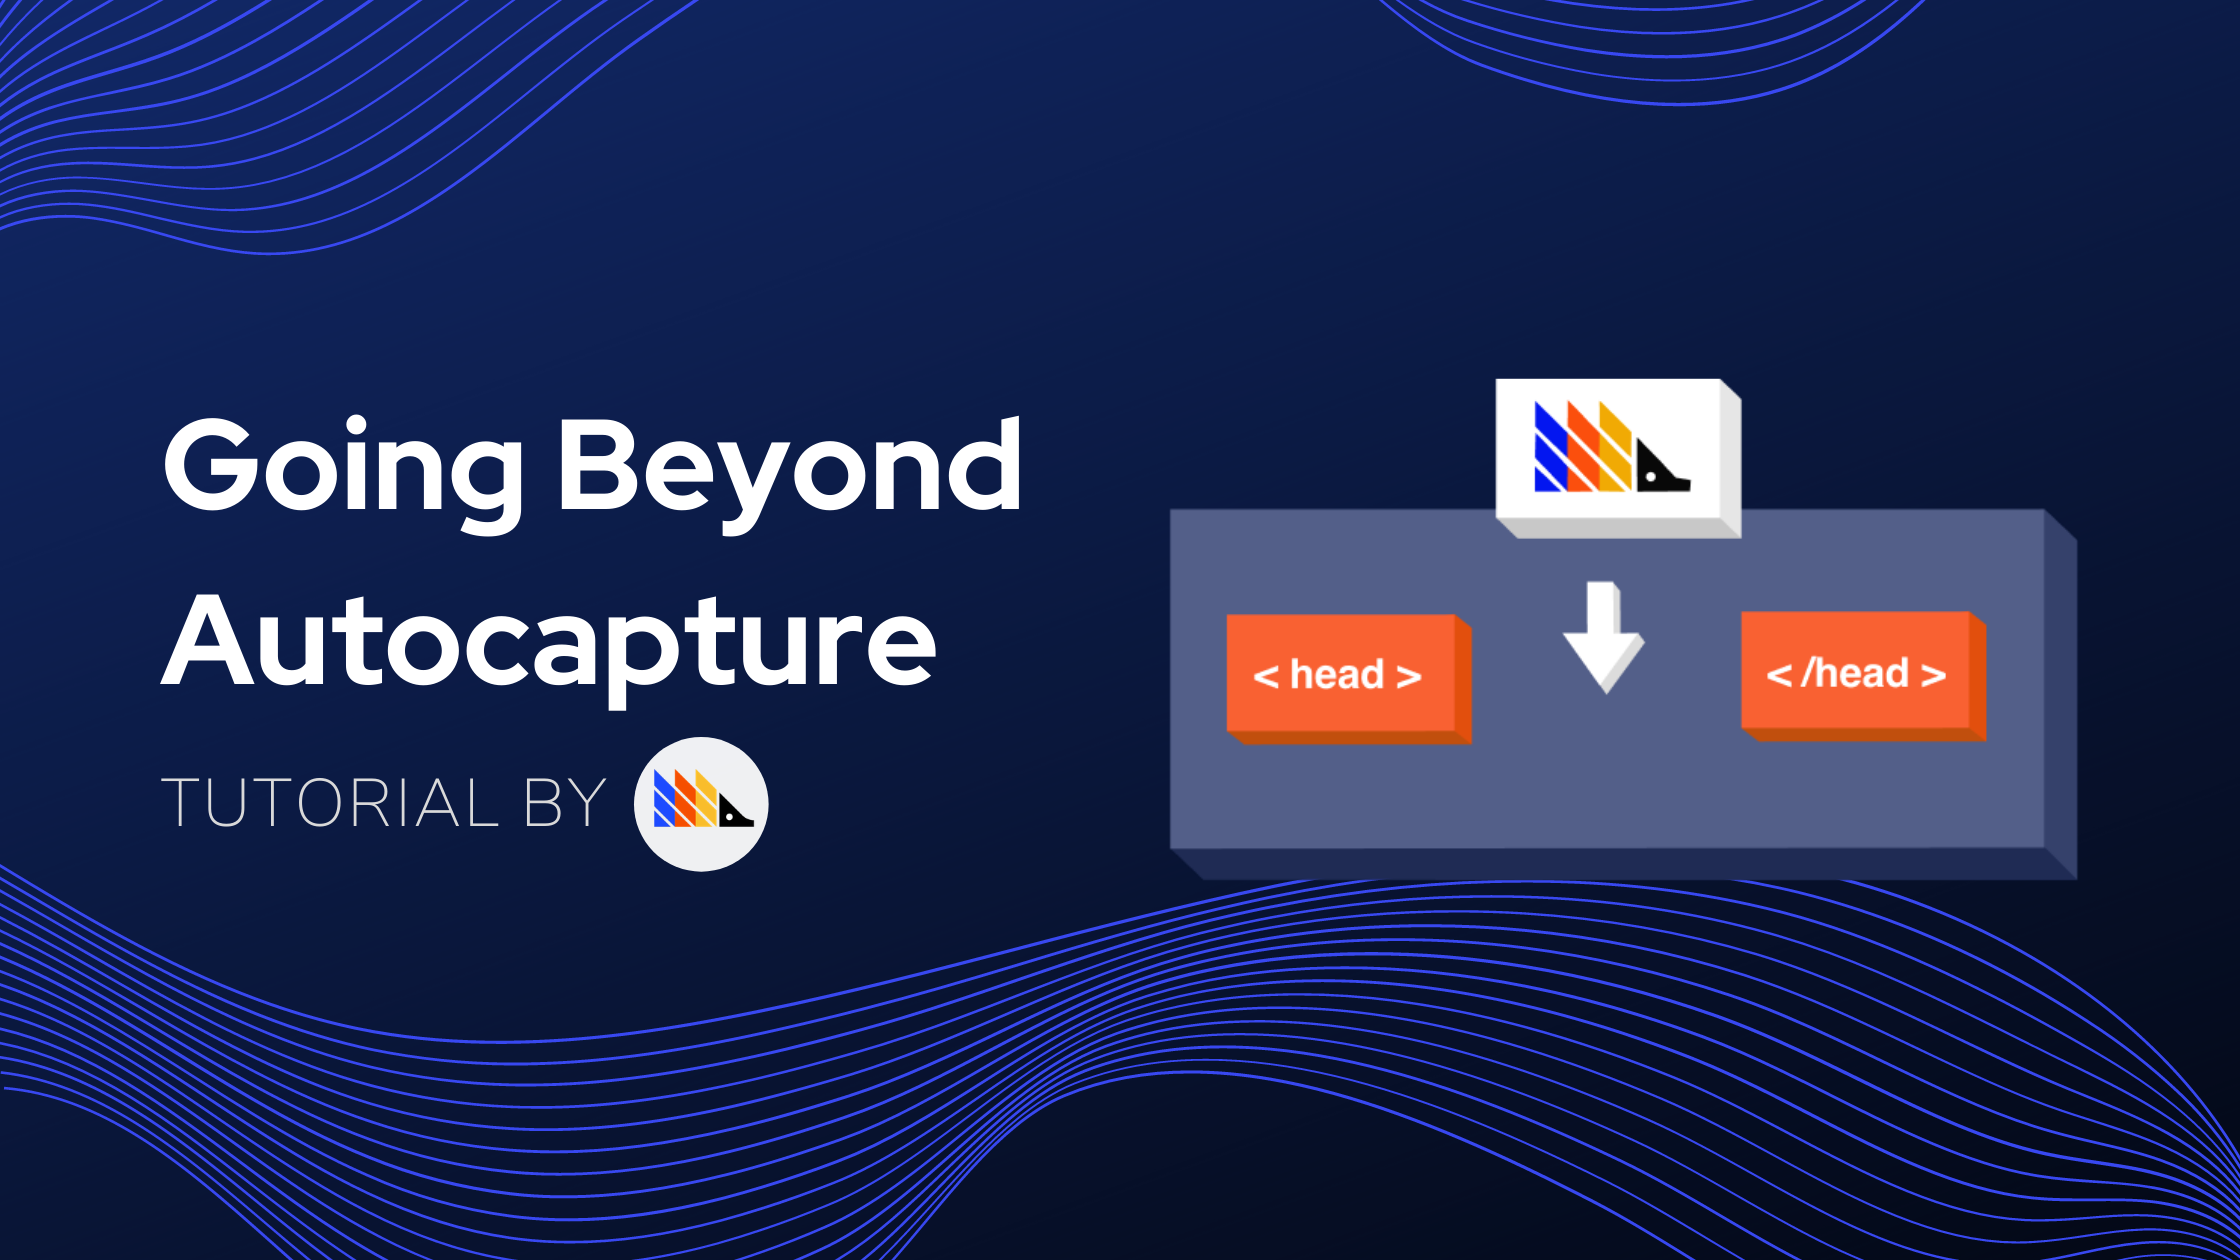
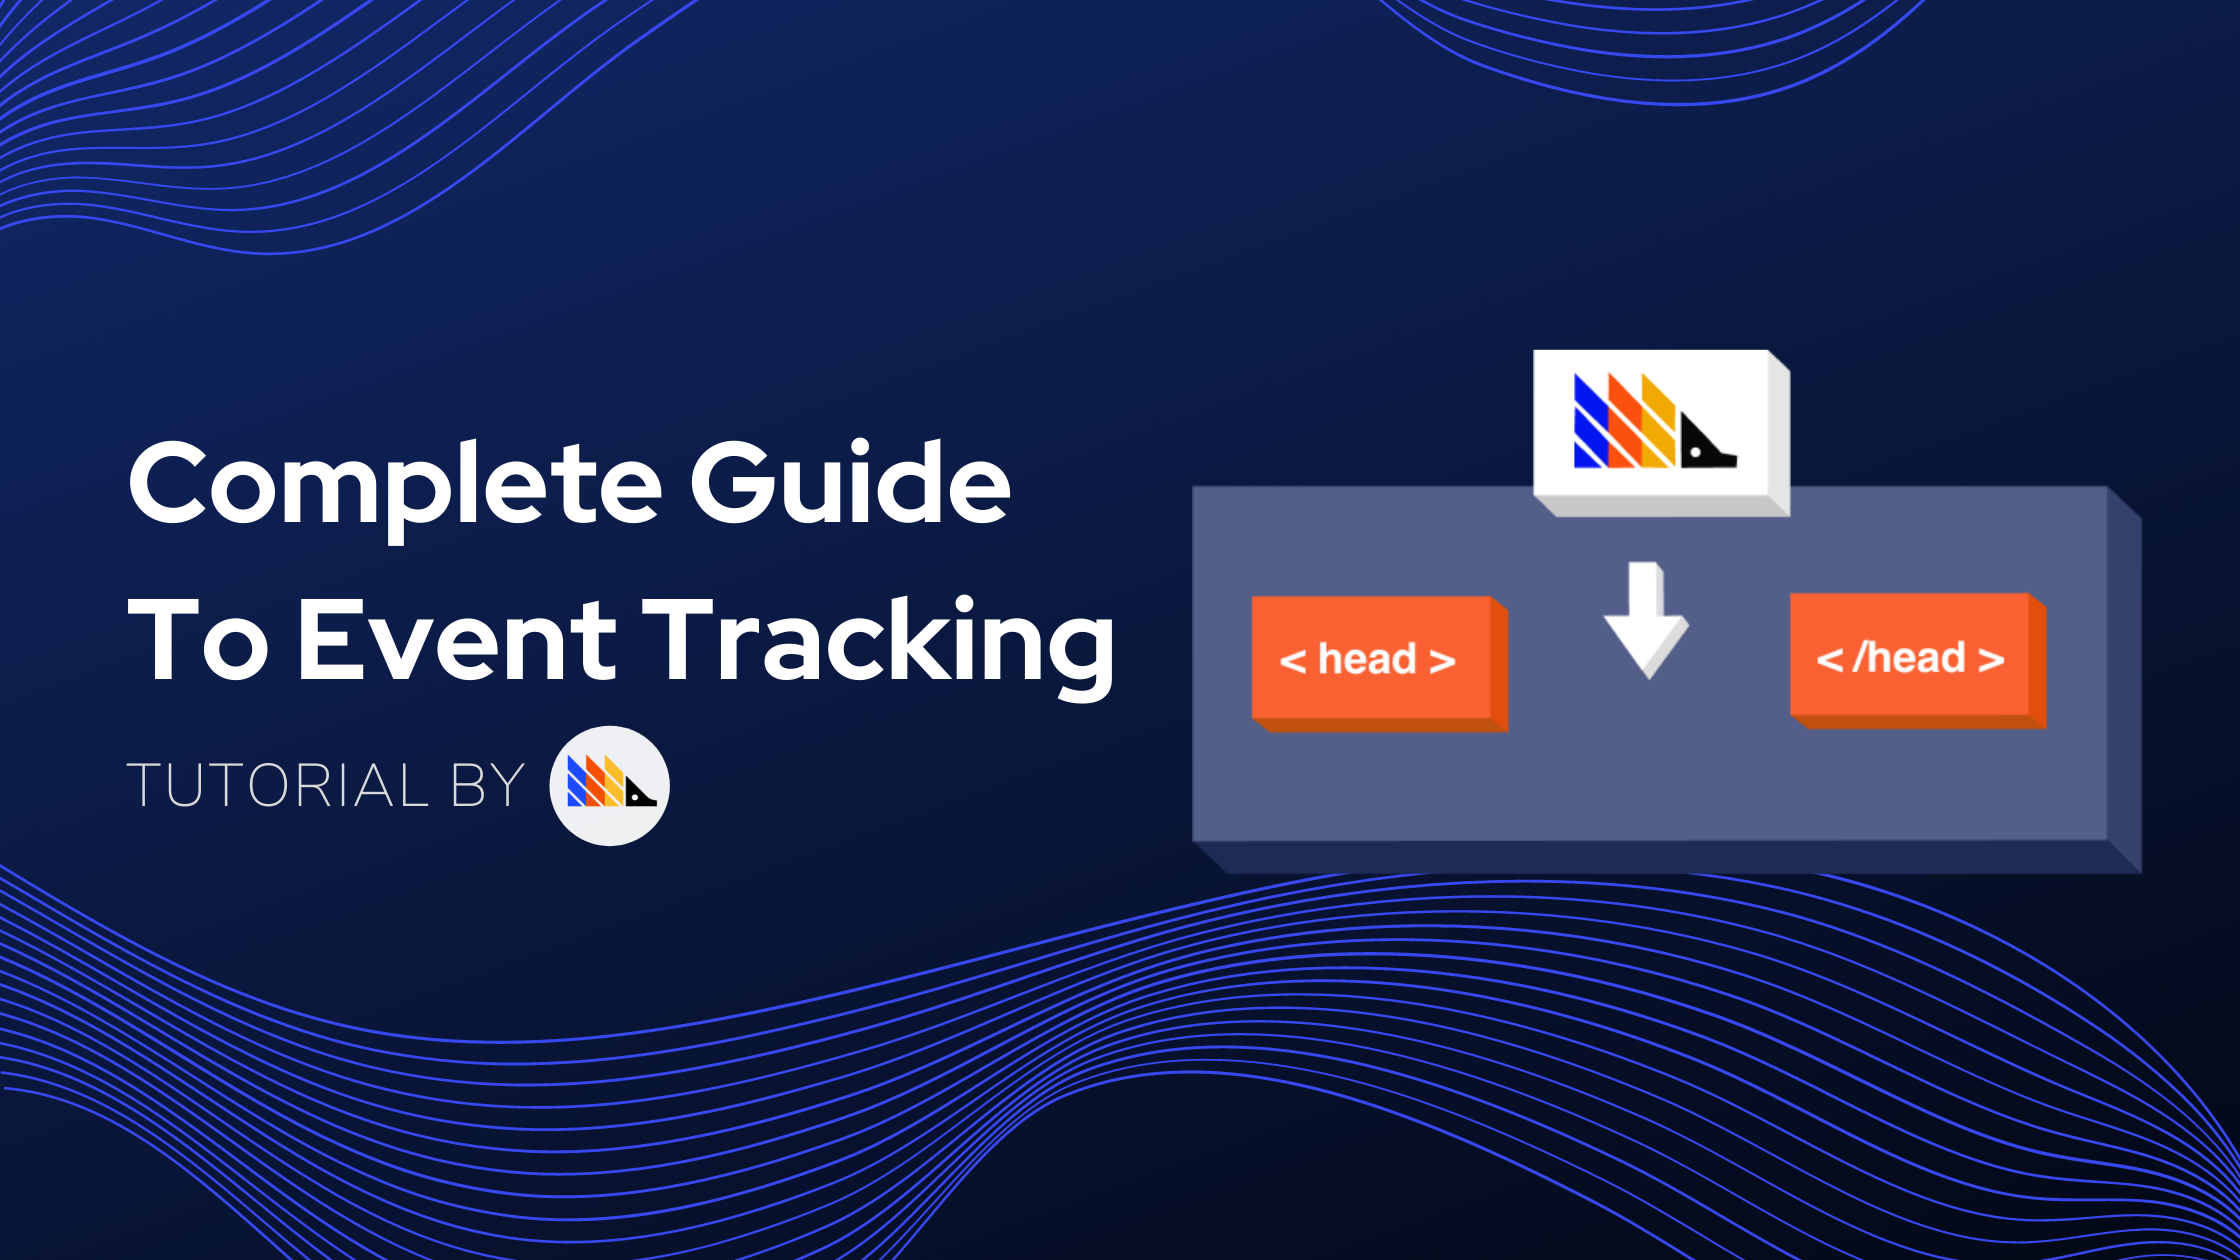
updated tutorial according to feedback

Changed region(s): [[0.0625, 0.2786, 0.9688, 0.7119], [0.0312, 0.3095, 0.4688, 0.4333]]

diff --git a/contents/docs/tutorials/actions.md b/contents/docs/tutorials/actions.md
@@ -1,5 +1,5 @@
 ---
-title: Going Beyond Autocapture
+title: Complete Guide to Event Tracking 
 sidebar: Docs
 showTitle: true
 ---
@@ -28,7 +28,7 @@ First, event autocapture can be a bit overwhelming. On high volume instances, wh
 
 Second, autocapture is a general solution that provides value for most users, but, to get the most out of PostHog, you should be using custom events. Custom events let you track _exactly_ the things that you care about, ranging from a user hovering over a certain part of your app, to a specific function being called on your backend.
 
-This tutorial will address these two points, walking you through how to create actions and send custom events step-by-step, so you can make the most out of PostHog.
+This tutorial will address these two points, walking you through how to create actions and send relevant custom events step-by-step, so you can make the most out of PostHog.
 
 ### Pre-Requisites
 
@@ -38,7 +38,7 @@ To follow this tutorial along, you need to:
 
 ### Sorting Through Your Events with Actions
 
-With the goal of making it easier to sort through your events, PostHog introduced the concept of [actions](/docs/features/actions), which are a way to tag and combine events you care about.
+With the goal of making it easier to sort through your events, PostHog introduced the concept of [actions](/docs/features/actions), which are a way to tag and combine events you care about. They are an important part of other features in PostHog, such as Cohorts. <!-- Link to Cohorts Tutorial Here -->
 
 The relationship between events and actions can be both one-to-one or many-to-one. What this means is that you can create an action from one event only, such as a "Pageview" action for a `$pageview` event, as well as an action targeting multiple events, like a "Sign Up" action targeting the events `clicked button with text "Sign Up"` and `clicked button with text "Sign Up Now"`.
 
@@ -87,25 +87,25 @@ Lastly, you can of course create actions from the 'Actions' page under 'Events':
 
 Visit our [dedicated actions page](/docs/features/actions/) for a comprehensive explanation of all the options available when creating an action.
 
-### Upgrading Your Analytics Game with Custom Events
+### Using Custom Events to Track Advanced Behaviors 
 
 Now that we've learned how to sort through events, let's go through how to create events that PostHog doesn't automatically capture for you.
 
-Custom events can be created from any of our [libraries](/docs/integrations), as well as our [API](/docs/api/overview). They can be triggered from both the backend and the frontend. 
+Custom events can be created from any of our [libraries](/docs/integrations), as well as our [API](/docs/api/overview). They can be triggered from both the backend and the frontend. We recommend looking through our integrations and only using our API if there isn't a suitable library for you, since using our libraries ensure you are always up-to-date.
 
-**Example: Custom events from your frontend**
+**Using JavaScript Event Listeners to Track User Focus and Exceptions**
 
-Frontend JS is heavily event-based by nature, making it a simple paradigm to pair up JavaScript events with PostHog events.
+Frontend JS is heavily event-based by nature, a paradigm that pairs up well with PostHog events.
 
 For example, to trigger an event when an element is hovered, you can do:
 
 ```js
 // Vanilla JS
 
-const myElement = document.getElementById('my-element')
+const paymentButtonEl = document.getElementById('payment-btn')
 
-myElement.addEventListener('mouseover', () => {
-    posthog.capture('my custom event')
+paymentButtonEl.addEventListener('mouseover', () => {
+    posthog.capture('payment button hovered')
 })
 
 ```
@@ -117,16 +117,16 @@ Another useful custom event might be tracking exceptions, like so:
 
 window.onerror = (errorMsg, url, lineNumber) => {
     // Pass exception details as event properties
-    posthog.capture('exception', {"message": errorMsg, "url": url, "lineNumber": lineNumber})
+    posthog.capture('frontend exception', {"message": errorMsg, "url": url, "lineNumber": lineNumber})
     return false;
 }
 ```
 
-These exceptions can then be correlated with [feature flags](/docs/features/feature-flags) as well as usage of your app, for example.
+These exceptions can then be correlated with [feature flags](/docs/features/feature-flags) and app usage, to determine if a new feature increased the incidence of exceptions, or if a certain exception harms conversion in a funnel, for example. 
 
 Essentially, it's entirely up to you what events you capture and what properties you pass to them. You can also add more complex logic to determine when to trigger an event, as well as what properties to pass to it.
 
-**Example: Custom events from your backend**
+**Using Backend Libraries to Track Function Calls and HTTP Status Codes**
 
 Custom events are not limited to your frontend, however! You can also send events from your backend, which is very useful for going deeper into how your app is being used. 
 
@@ -154,6 +154,7 @@ Another useful event could potentially be tracking endpoints that returned a sta
 ```go
 // Go + Martini Web Framework
 
+// Triggered when route is not found
 m.NotFound(func(req *http.Request) string) {
     // Send event to PostHog 
     client.Enqueue(posthog.Capture{
